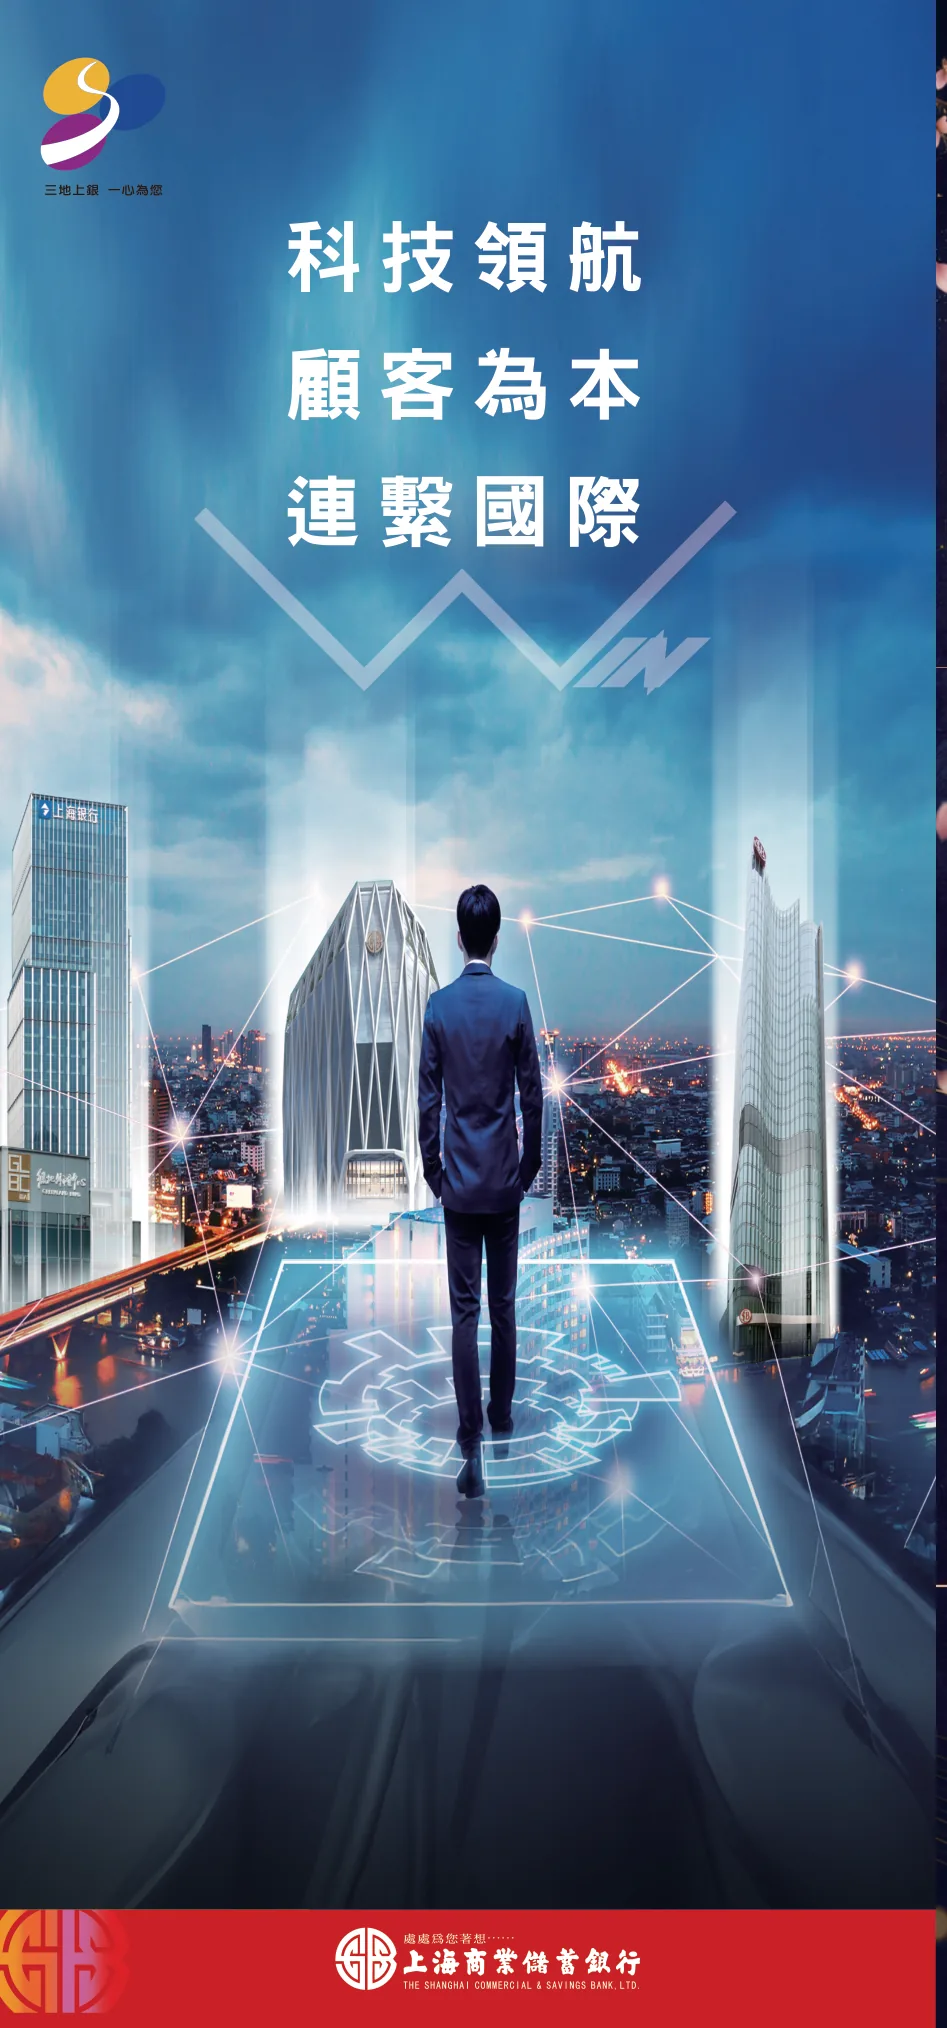
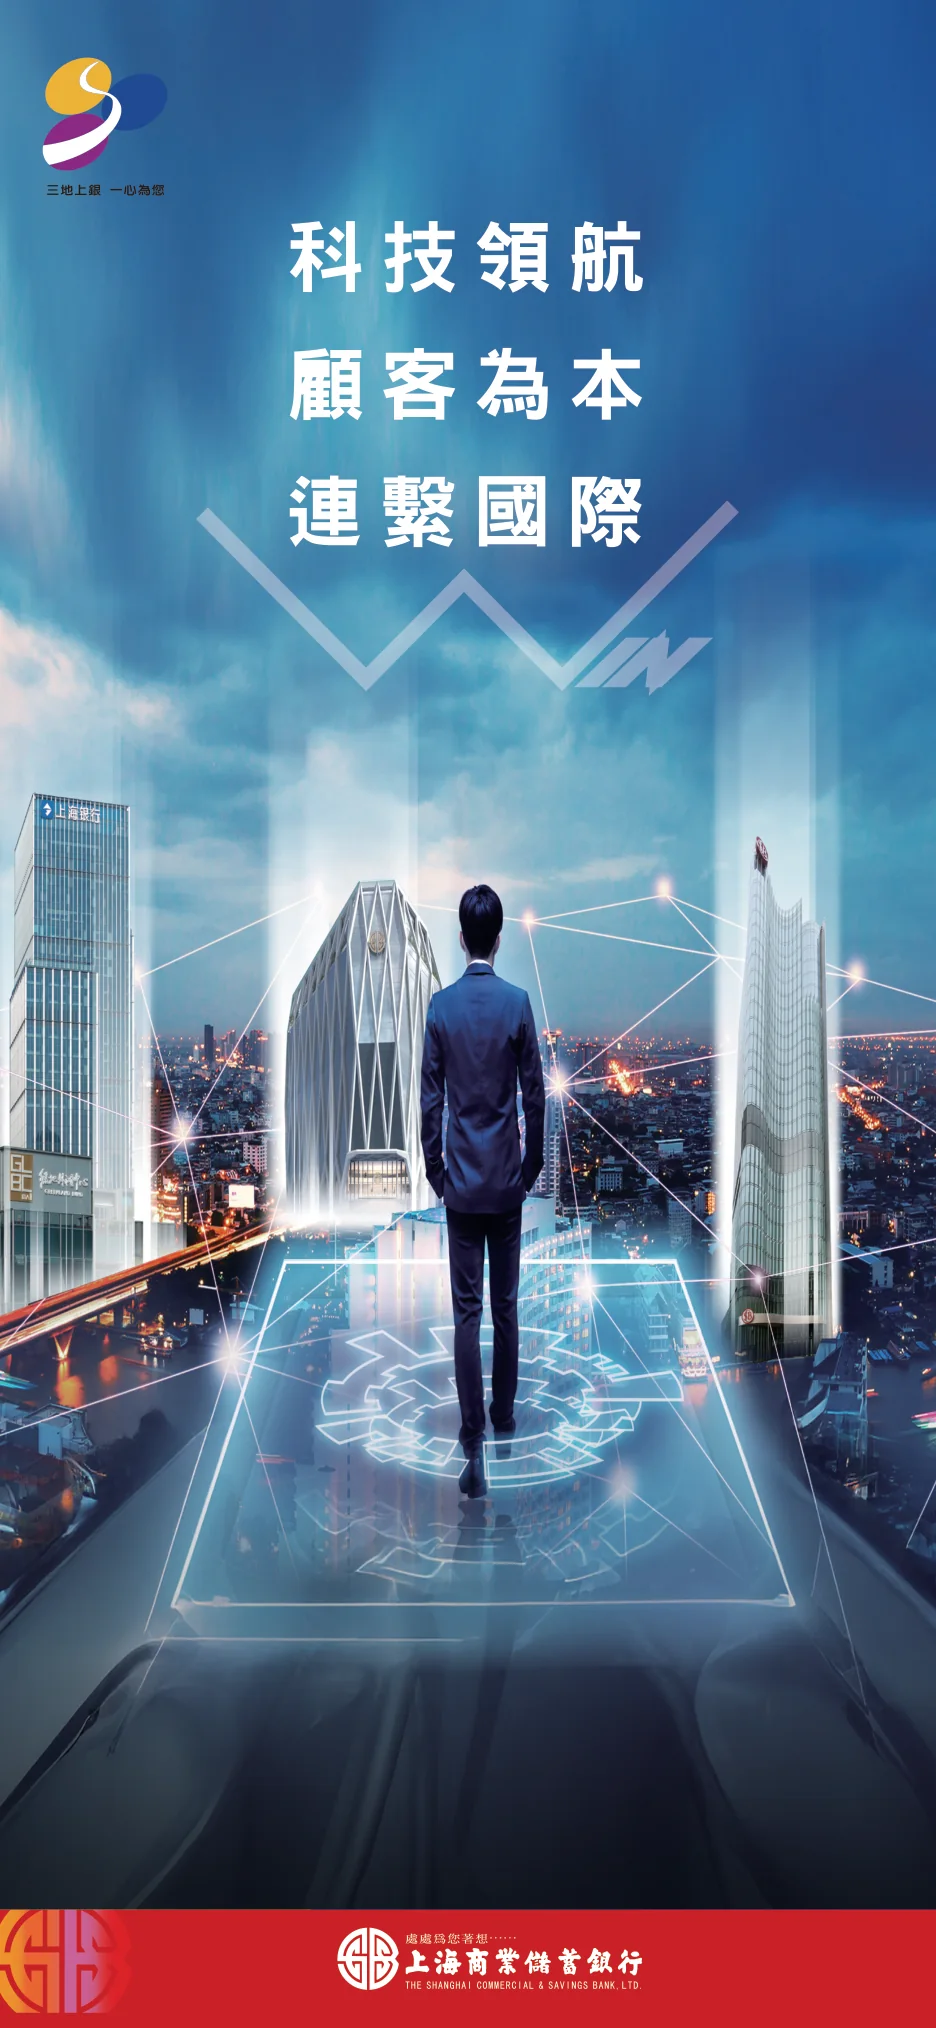
fix(notes): cut the printed panels on their own folds
The panels were cut in thirds, which is not where this sheet folds: the
back cover carried a strip of the leaf beside it. Both panels are now cut
where the artwork itself changes — the advertisement runs from 399.8 to
795.8 points, the cover from there to the trim.

The cover is the printed panel again, with no mirrored reach and no blend
at its sides: the leaf takes the navy of the panel's own edge instead, so
it reads as printed to the edge of the page.

diff --git a/src/data/moonlight-promise-people.js b/src/data/moonlight-promise-people.js
@@ -92,14 +92,10 @@ export const moonlightPromisePeople = [
   },
 ];
 
-/**
- * The book opens on the printed cover panel: lockup, date and credits as
- * printed. Its sides carry a mirrored reach of its own artwork, so the page can
- * be filled edge to edge without cropping anything the printer set.
- */
+/** The book opens on the printed cover panel: lockup, date and credits as printed. */
 export const moonlightPromiseCoverArtwork = {
   url: coverUrl,
-  width: 1420,
+  width: 960,
   height: 2028,
   alt: "月光下的約定：2026 年 9 月 25 日（五）19:30，國家兩廳院演奏廳",
 };
@@ -107,7 +103,7 @@ export const moonlightPromiseCoverArtwork = {
 /** The sponsor's page closes the book, exactly as it closes the printed sheet. */
 export const moonlightPromiseBackCover = {
   url: backCoverUrl,
-  width: 947,
+  width: 936,
   height: 2028,
   alt: "上海商業儲蓄銀行：科技領航、顧客為本、連繫國際",
 };

diff --git a/styles.css b/styles.css
@@ -7901,9 +7901,13 @@ html:has(.reader-shell[data-view="notes-book"]) body {
   object-position: center;
 }
 
-/* The cover fills the leaf; its mirrored sides are what a page edge trims. */
-.note-page[data-page-kind="cover"] .note-printed img {
-  object-fit: cover;
+/*
+ * The cover panel is narrower than a phone's page. Rather than crop it or
+ * fake a wider picture, the leaf itself takes the navy of the panel's own
+ * edge, so the cover reads as printed to the edge of the page.
+ */
+.note-page[data-page-kind="cover"] {
+  background-color: #27314e;
 }
 
 /* Contents: a heading, then one line per work, flowing on like any other text. */
